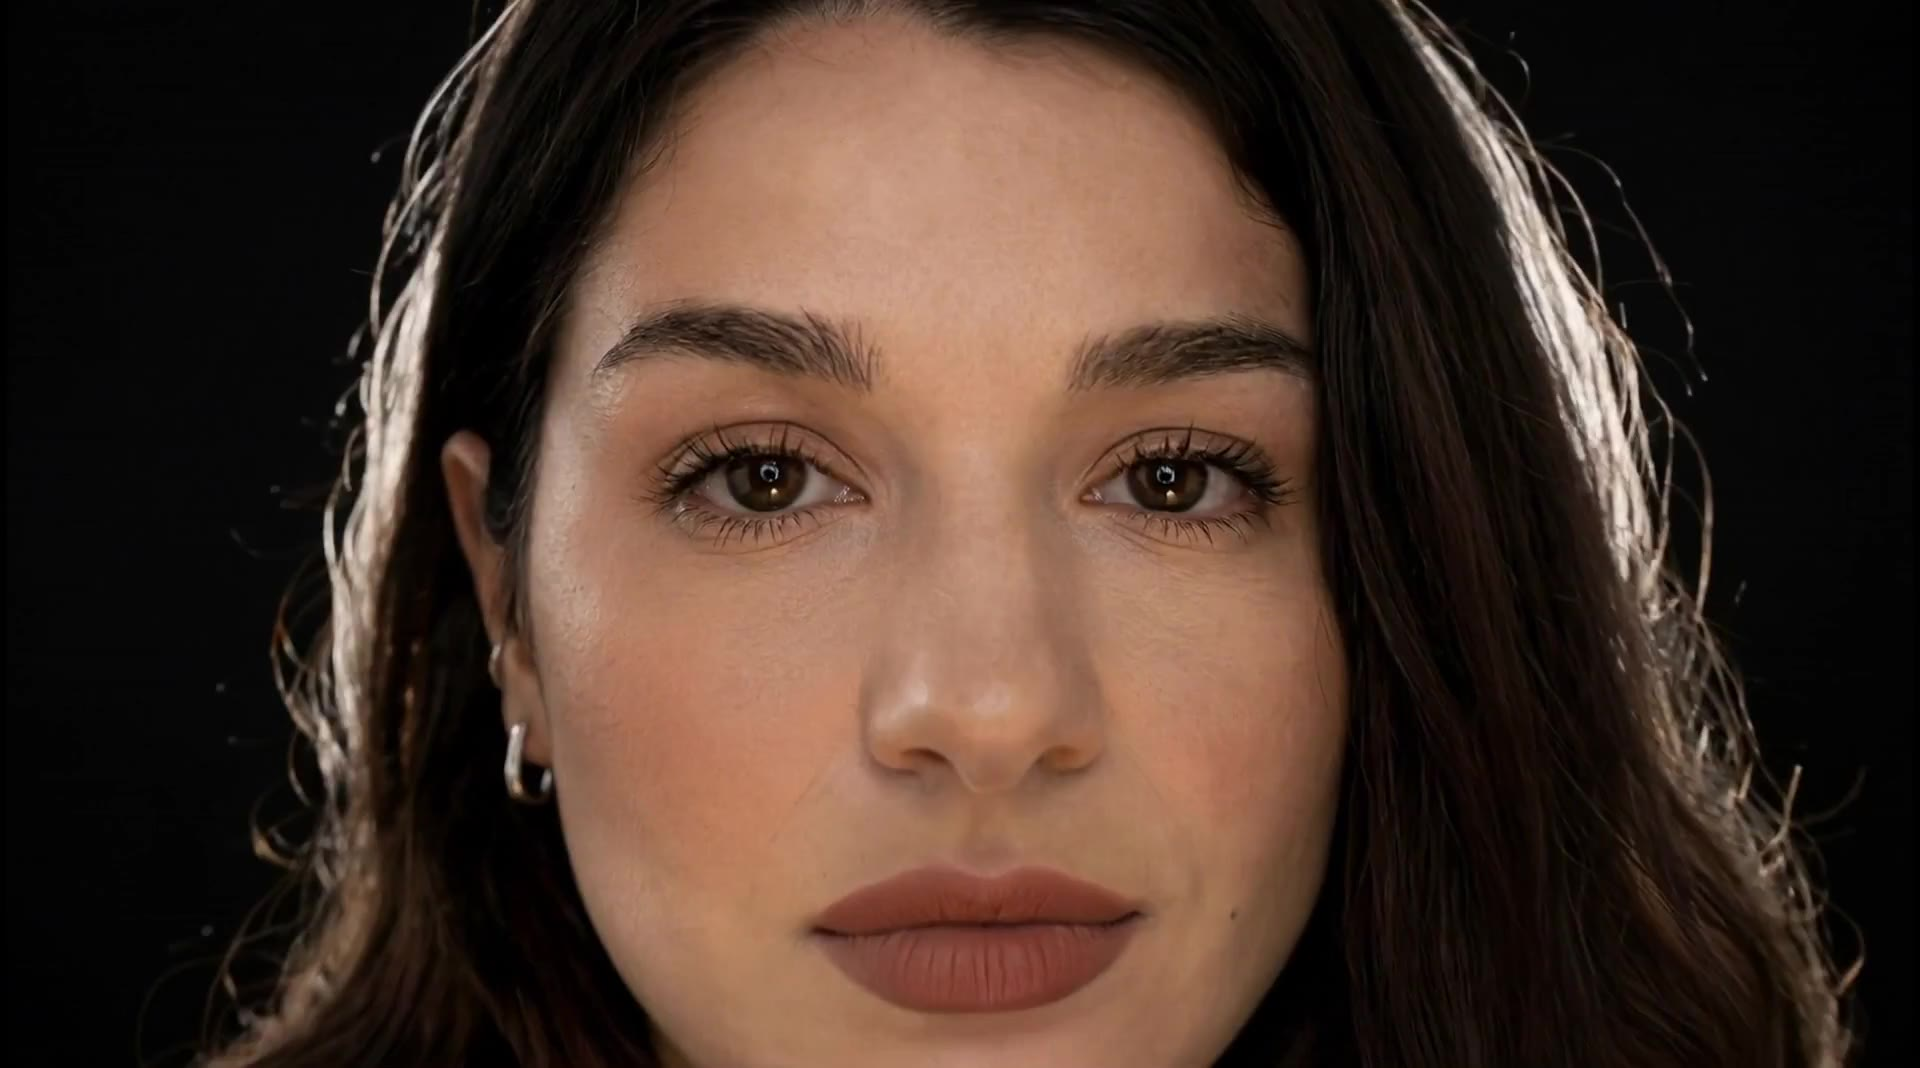
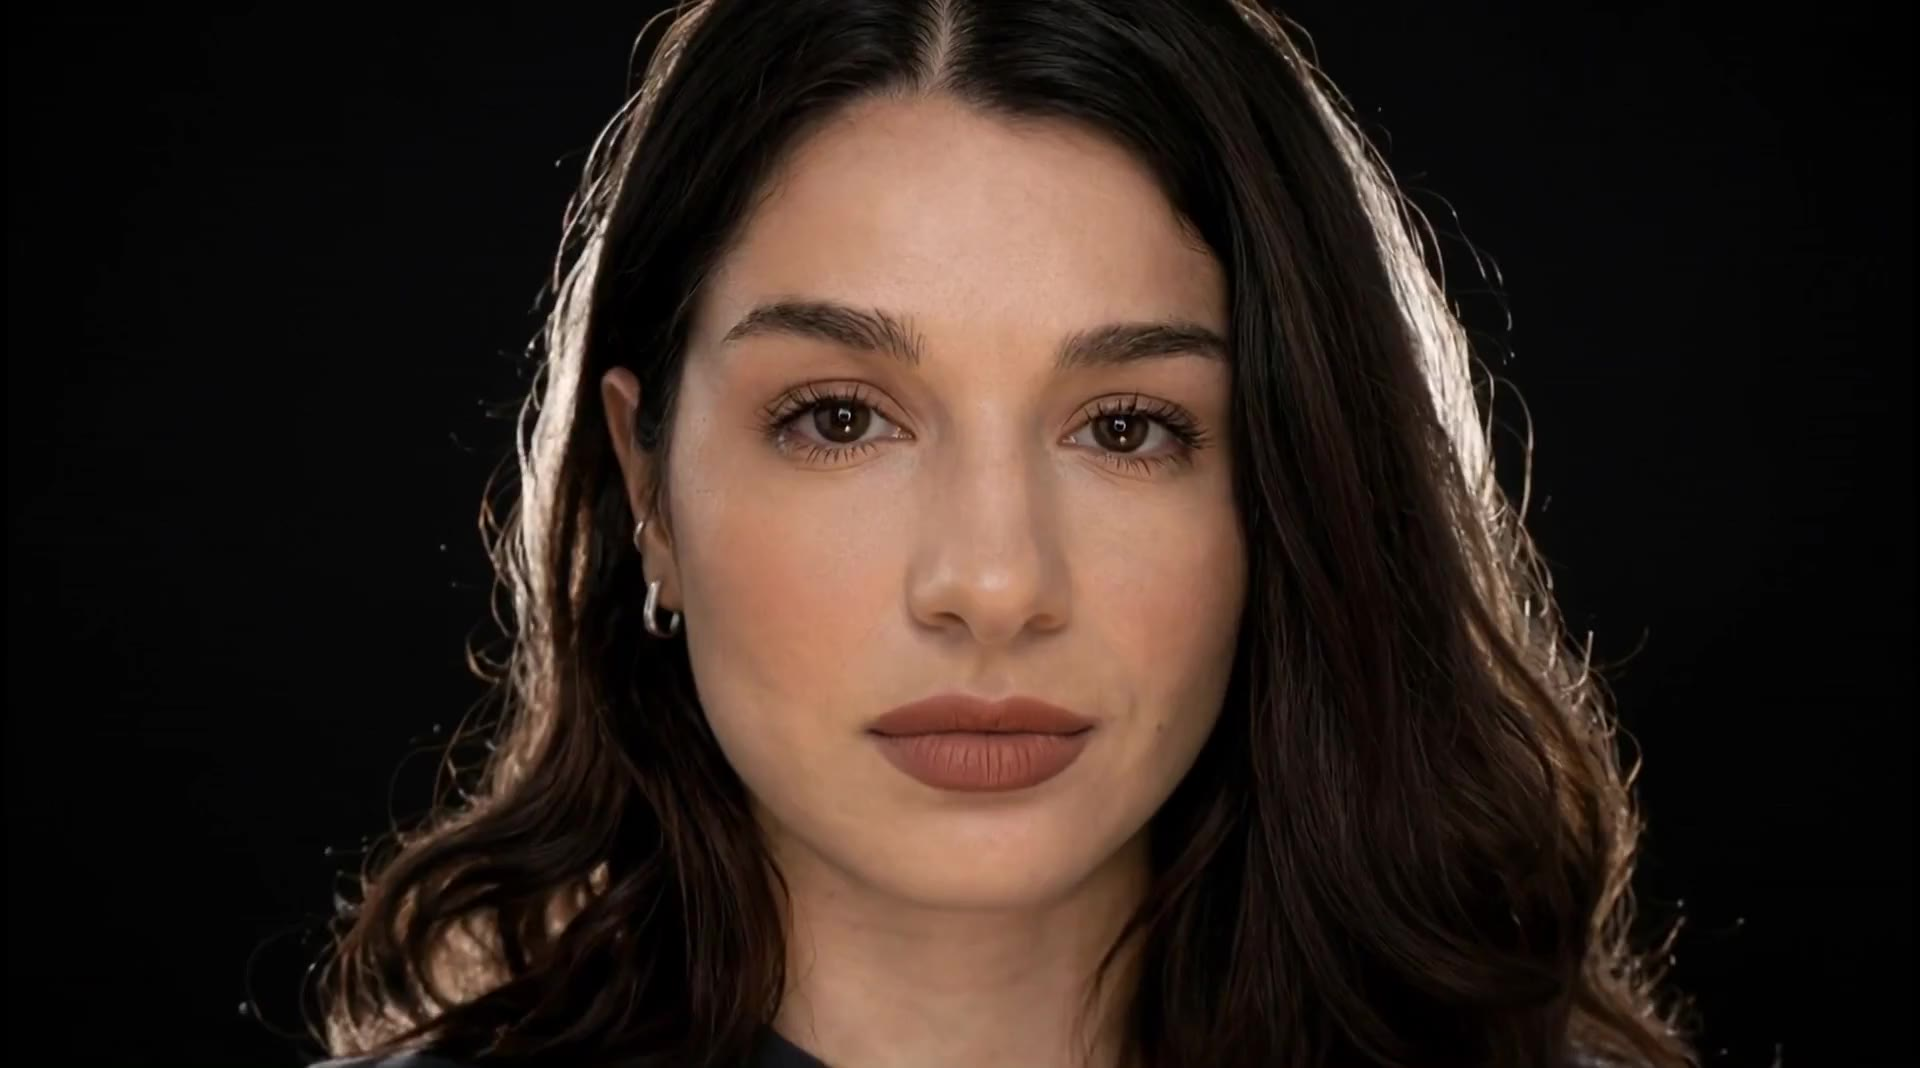
Upgrade

diff --git a/index.html b/index.html
@@ -2189,12 +2189,11 @@
     video.addEventListener('loadeddata', markReady);
     setTimeout(markReady, 1800);
 
-    // Force a first frame render on mobile so the video isn't blank before scroll starts
-    if(isTouch){
-      video.addEventListener('loadeddata', function(){
-        try { video.currentTime = 0.01; } catch(e){}
-      });
-    }
+    // Force the video onto its first frame on ALL devices, so the initial state
+    // matches the poster image and there's no visual jump when scroll-scrub kicks in.
+    video.addEventListener('loadeddata', function(){
+      try { video.currentTime = 0.01; } catch(e){}
+    });
 
     function progress(){
       const scrollable = hero.offsetHeight - window.innerHeight;